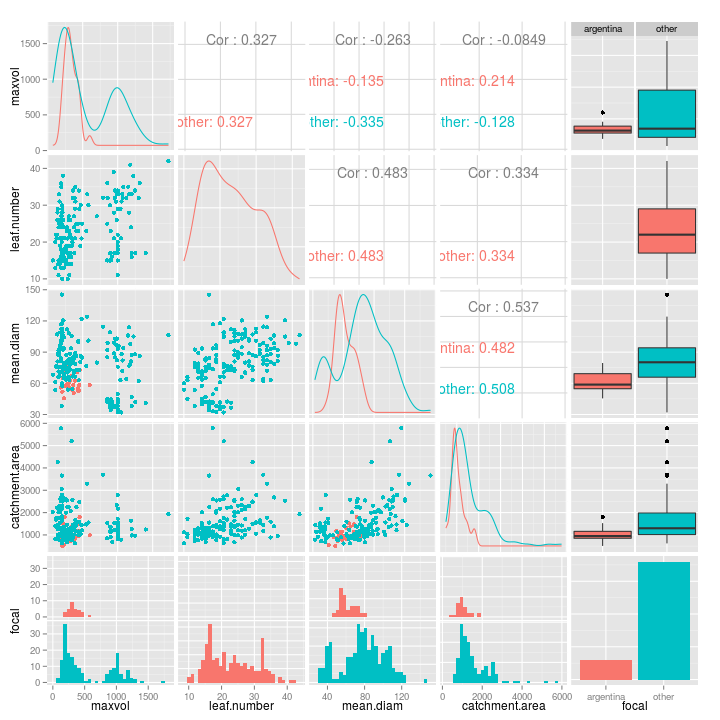
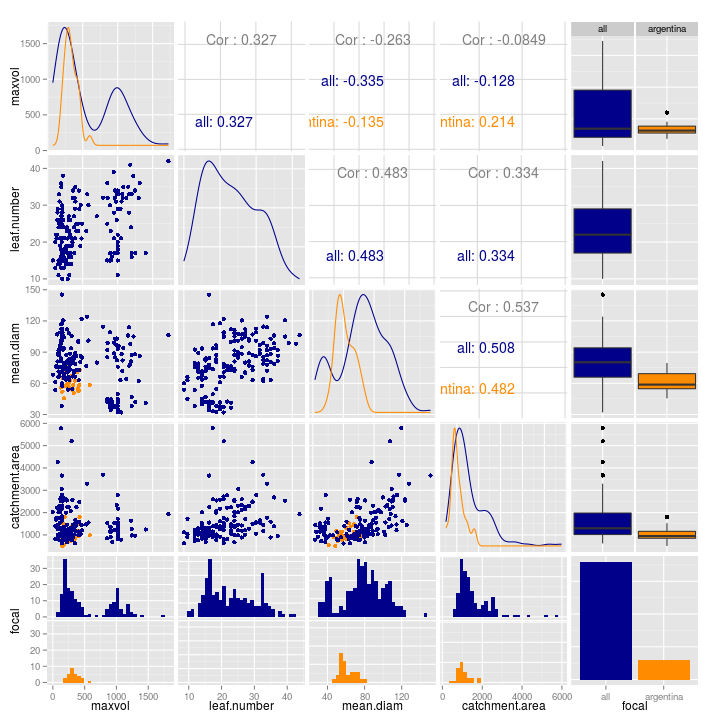
better colours!

diff --git a/report/frenchguiana.md b/report/frenchguiana.md
@@ -20,21 +20,16 @@ physical %>%
 
 
 ```r
-physical %>% 
-  mutate(focal = ifelse(site == dataset, dataset, "other")) %>% 
+sizepairs <- physical %>% 
+  mutate(focal = ifelse(site == dataset, dataset, "all")) %>% 
   select(maxvol:catchment.area, focal) %>% 
-  GGally::ggpairs(colour = "focal")
-```
+  ggpairs(colour = "focal")
 
-```
-## stat_bin: binwidth defaulted to range/30. Use 'binwidth = x' to adjust this.
-## stat_bin: binwidth defaulted to range/30. Use 'binwidth = x' to adjust this.
-## stat_bin: binwidth defaulted to range/30. Use 'binwidth = x' to adjust this.
-## stat_bin: binwidth defaulted to range/30. Use 'binwidth = x' to adjust this.
-## stat_bin: binwidth defaulted to range/30. Use 'binwidth = x' to adjust this.
-## stat_bin: binwidth defaulted to range/30. Use 'binwidth = x' to adjust this.
-## stat_bin: binwidth defaulted to range/30. Use 'binwidth = x' to adjust this.
-## stat_bin: binwidth defaulted to range/30. Use 'binwidth = x' to adjust this.
+bw1 <- add_to_plots(sizepairs, scale_fill_manual(values=c("darkblue","darkorange")))
+
+bw2 <- add_to_plots(bw1, scale_colour_manual(values=c("darkblue","darkorange")))
+
+bw2
 ```
 
 ![plot of chunk sizes](figure/frenchguiana__sizes-1.png) 

diff --git a/report/puertorico.md b/report/puertorico.md
@@ -20,21 +20,16 @@ physical %>%
 
 
 ```r
-physical %>% 
-  mutate(focal = ifelse(site == dataset, dataset, "other")) %>% 
+sizepairs <- physical %>% 
+  mutate(focal = ifelse(site == dataset, dataset, "all")) %>% 
   select(maxvol:catchment.area, focal) %>% 
-  GGally::ggpairs(colour = "focal")
-```
+  ggpairs(colour = "focal")
 
-```
-## stat_bin: binwidth defaulted to range/30. Use 'binwidth = x' to adjust this.
-## stat_bin: binwidth defaulted to range/30. Use 'binwidth = x' to adjust this.
-## stat_bin: binwidth defaulted to range/30. Use 'binwidth = x' to adjust this.
-## stat_bin: binwidth defaulted to range/30. Use 'binwidth = x' to adjust this.
-## stat_bin: binwidth defaulted to range/30. Use 'binwidth = x' to adjust this.
-## stat_bin: binwidth defaulted to range/30. Use 'binwidth = x' to adjust this.
-## stat_bin: binwidth defaulted to range/30. Use 'binwidth = x' to adjust this.
-## stat_bin: binwidth defaulted to range/30. Use 'binwidth = x' to adjust this.
+bw1 <- add_to_plots(sizepairs, scale_fill_manual(values=c("darkblue","darkorange")))
+
+bw2 <- add_to_plots(bw1, scale_colour_manual(values=c("darkblue","darkorange")))
+
+bw2
 ```
 
 ![plot of chunk sizes](figure/puertorico__sizes-1.png) 

diff --git a/report/argentina.md b/report/argentina.md
@@ -20,21 +20,16 @@ physical %>%
 
 
 ```r
-physical %>% 
-  mutate(focal = ifelse(site == dataset, dataset, "other")) %>% 
+sizepairs <- physical %>% 
+  mutate(focal = ifelse(site == dataset, dataset, "all")) %>% 
   select(maxvol:catchment.area, focal) %>% 
-  GGally::ggpairs(colour = "focal")
-```
+  ggpairs(colour = "focal")
 
-```
-## stat_bin: binwidth defaulted to range/30. Use 'binwidth = x' to adjust this.
-## stat_bin: binwidth defaulted to range/30. Use 'binwidth = x' to adjust this.
-## stat_bin: binwidth defaulted to range/30. Use 'binwidth = x' to adjust this.
-## stat_bin: binwidth defaulted to range/30. Use 'binwidth = x' to adjust this.
-## stat_bin: binwidth defaulted to range/30. Use 'binwidth = x' to adjust this.
-## stat_bin: binwidth defaulted to range/30. Use 'binwidth = x' to adjust this.
-## stat_bin: binwidth defaulted to range/30. Use 'binwidth = x' to adjust this.
-## stat_bin: binwidth defaulted to range/30. Use 'binwidth = x' to adjust this.
+bw1 <- add_to_plots(sizepairs, scale_fill_manual(values=c("darkblue","darkorange")))
+
+bw2 <- add_to_plots(bw1, scale_colour_manual(values=c("darkblue","darkorange")))
+
+bw2
 ```
 
 ![plot of chunk sizes](figure/argentina__sizes-1.png) 

diff --git a/report/costarica.md b/report/costarica.md
@@ -20,21 +20,16 @@ physical %>%
 
 
 ```r
-physical %>% 
-  mutate(focal = ifelse(site == dataset, dataset, "other")) %>% 
+sizepairs <- physical %>% 
+  mutate(focal = ifelse(site == dataset, dataset, "all")) %>% 
   select(maxvol:catchment.area, focal) %>% 
-  GGally::ggpairs(colour = "focal")
-```
+  ggpairs(colour = "focal")
 
-```
-## stat_bin: binwidth defaulted to range/30. Use 'binwidth = x' to adjust this.
-## stat_bin: binwidth defaulted to range/30. Use 'binwidth = x' to adjust this.
-## stat_bin: binwidth defaulted to range/30. Use 'binwidth = x' to adjust this.
-## stat_bin: binwidth defaulted to range/30. Use 'binwidth = x' to adjust this.
-## stat_bin: binwidth defaulted to range/30. Use 'binwidth = x' to adjust this.
-## stat_bin: binwidth defaulted to range/30. Use 'binwidth = x' to adjust this.
-## stat_bin: binwidth defaulted to range/30. Use 'binwidth = x' to adjust this.
-## stat_bin: binwidth defaulted to range/30. Use 'binwidth = x' to adjust this.
+bw1 <- add_to_plots(sizepairs, scale_fill_manual(values=c("darkblue","darkorange")))
+
+bw2 <- add_to_plots(bw1, scale_colour_manual(values=c("darkblue","darkorange")))
+
+bw2
 ```
 
 ![plot of chunk sizes](figure/costarica__sizes-1.png) 

diff --git a/report/colombia.md b/report/colombia.md
@@ -20,21 +20,16 @@ physical %>%
 
 
 ```r
-physical %>% 
-  mutate(focal = ifelse(site == dataset, dataset, "other")) %>% 
+sizepairs <- physical %>% 
+  mutate(focal = ifelse(site == dataset, dataset, "all")) %>% 
   select(maxvol:catchment.area, focal) %>% 
-  GGally::ggpairs(colour = "focal")
-```
+  ggpairs(colour = "focal")
 
-```
-## stat_bin: binwidth defaulted to range/30. Use 'binwidth = x' to adjust this.
-## stat_bin: binwidth defaulted to range/30. Use 'binwidth = x' to adjust this.
-## stat_bin: binwidth defaulted to range/30. Use 'binwidth = x' to adjust this.
-## stat_bin: binwidth defaulted to range/30. Use 'binwidth = x' to adjust this.
-## stat_bin: binwidth defaulted to range/30. Use 'binwidth = x' to adjust this.
-## stat_bin: binwidth defaulted to range/30. Use 'binwidth = x' to adjust this.
-## stat_bin: binwidth defaulted to range/30. Use 'binwidth = x' to adjust this.
-## stat_bin: binwidth defaulted to range/30. Use 'binwidth = x' to adjust this.
+bw1 <- add_to_plots(sizepairs, scale_fill_manual(values=c("darkblue","darkorange")))
+
+bw2 <- add_to_plots(bw1, scale_colour_manual(values=c("darkblue","darkorange")))
+
+bw2
 ```
 
 ![plot of chunk sizes](figure/colombia__sizes-1.png) 

diff --git a/report/cardoso.md b/report/cardoso.md
@@ -20,21 +20,16 @@ physical %>%
 
 
 ```r
-physical %>% 
-  mutate(focal = ifelse(site == dataset, dataset, "other")) %>% 
+sizepairs <- physical %>% 
+  mutate(focal = ifelse(site == dataset, dataset, "all")) %>% 
   select(maxvol:catchment.area, focal) %>% 
-  GGally::ggpairs(colour = "focal")
-```
+  ggpairs(colour = "focal")
 
-```
-## stat_bin: binwidth defaulted to range/30. Use 'binwidth = x' to adjust this.
-## stat_bin: binwidth defaulted to range/30. Use 'binwidth = x' to adjust this.
-## stat_bin: binwidth defaulted to range/30. Use 'binwidth = x' to adjust this.
-## stat_bin: binwidth defaulted to range/30. Use 'binwidth = x' to adjust this.
-## stat_bin: binwidth defaulted to range/30. Use 'binwidth = x' to adjust this.
-## stat_bin: binwidth defaulted to range/30. Use 'binwidth = x' to adjust this.
-## stat_bin: binwidth defaulted to range/30. Use 'binwidth = x' to adjust this.
-## stat_bin: binwidth defaulted to range/30. Use 'binwidth = x' to adjust this.
+bw1 <- add_to_plots(sizepairs, scale_fill_manual(values=c("darkblue","darkorange")))
+
+bw2 <- add_to_plots(bw1, scale_colour_manual(values=c("darkblue","darkorange")))
+
+bw2
 ```
 
 ![plot of chunk sizes](figure/cardoso__sizes-1.png) 

diff --git a/report/macae.md b/report/macae.md
@@ -20,21 +20,16 @@ physical %>%
 
 
 ```r
-physical %>% 
-  mutate(focal = ifelse(site == dataset, dataset, "other")) %>% 
+sizepairs <- physical %>% 
+  mutate(focal = ifelse(site == dataset, dataset, "all")) %>% 
   select(maxvol:catchment.area, focal) %>% 
-  GGally::ggpairs(colour = "focal")
-```
+  ggpairs(colour = "focal")
 
-```
-## stat_bin: binwidth defaulted to range/30. Use 'binwidth = x' to adjust this.
-## stat_bin: binwidth defaulted to range/30. Use 'binwidth = x' to adjust this.
-## stat_bin: binwidth defaulted to range/30. Use 'binwidth = x' to adjust this.
-## stat_bin: binwidth defaulted to range/30. Use 'binwidth = x' to adjust this.
-## stat_bin: binwidth defaulted to range/30. Use 'binwidth = x' to adjust this.
-## stat_bin: binwidth defaulted to range/30. Use 'binwidth = x' to adjust this.
-## stat_bin: binwidth defaulted to range/30. Use 'binwidth = x' to adjust this.
-## stat_bin: binwidth defaulted to range/30. Use 'binwidth = x' to adjust this.
+bw1 <- add_to_plots(sizepairs, scale_fill_manual(values=c("darkblue","darkorange")))
+
+bw2 <- add_to_plots(bw1, scale_colour_manual(values=c("darkblue","darkorange")))
+
+bw2
 ```
 
 ![plot of chunk sizes](figure/macae__sizes-1.png) 
